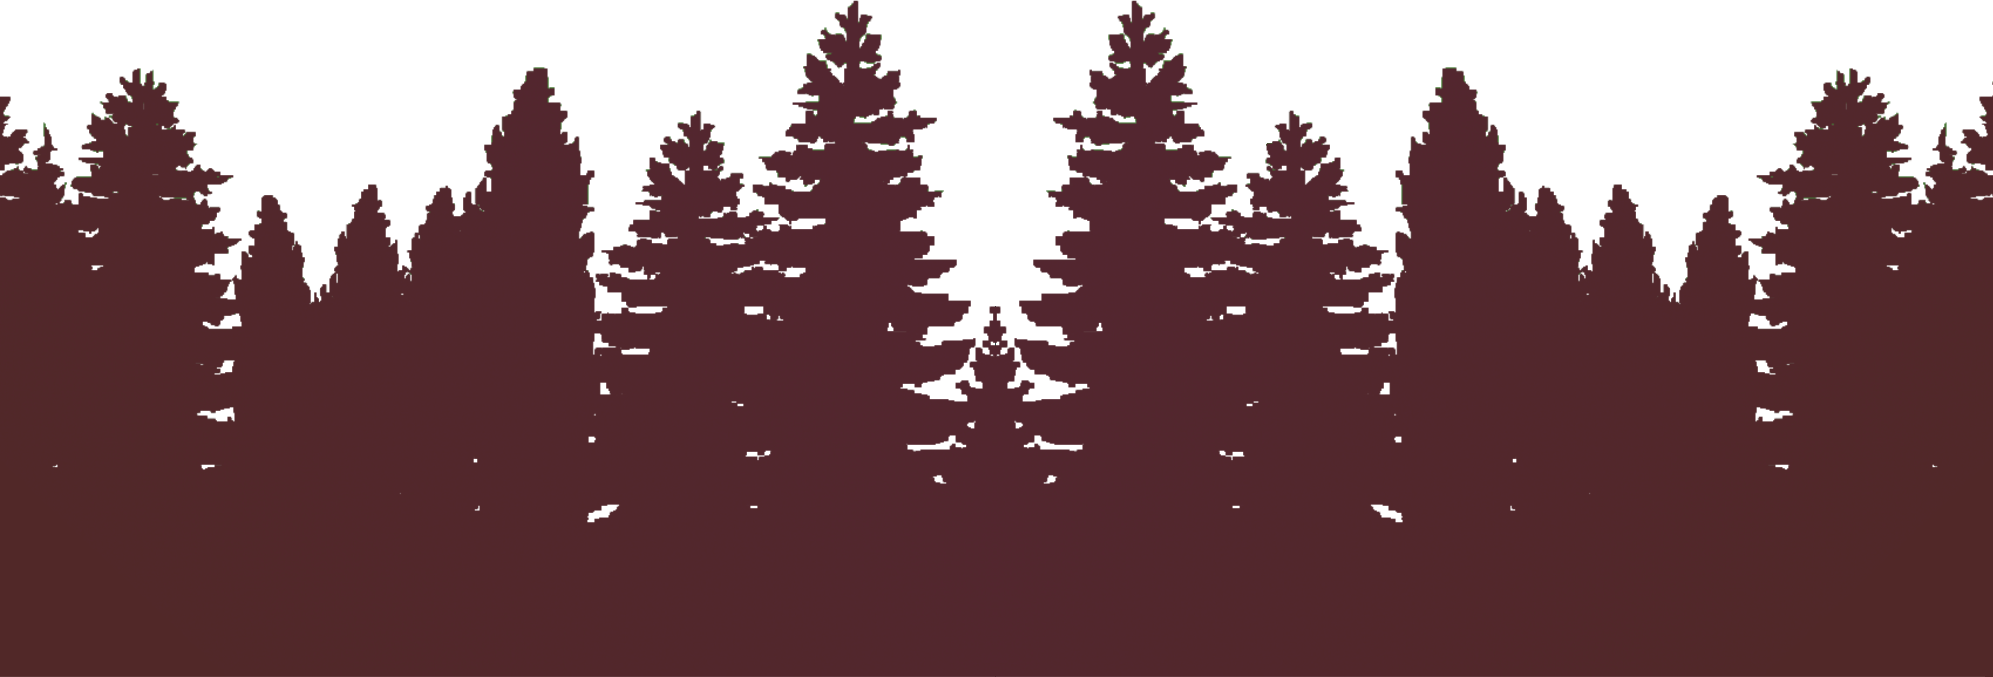
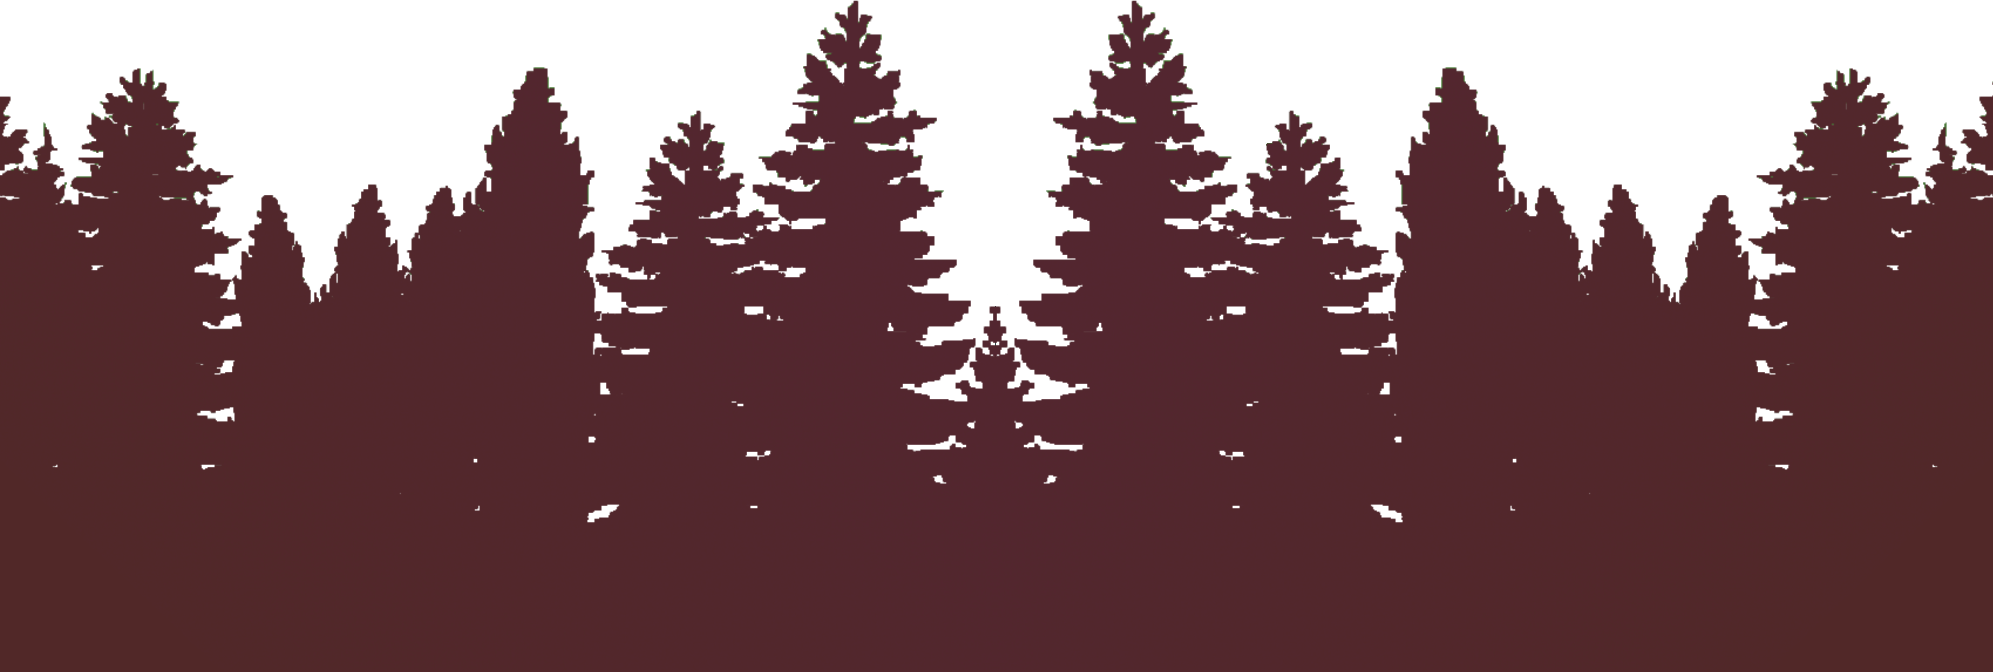
Visual fixes/improvements

diff --git a/layouts/main-layout.module.scss b/layouts/main-layout.module.scss
@@ -1,5 +1,5 @@
 .headerSection {
-    background: bottom/contain no-repeat url("/trees.png"), linear-gradient(0deg, #eacc9d, #ea6152);
+    background: bottom/contain repeat-x url("/trees.png"), linear-gradient(0deg, #eacc9d, #ea6152);
     display: flex;
     flex-direction: column;
     justify-content: center;
@@ -8,7 +8,7 @@
     font-size: 70px;
     color: white;
     text-shadow: rgb(0, 0, 0) -1px -1px 3px, rgb(0, 0, 0) 1px -1px 3px, rgb(0, 0, 0) -1px 1px 3px, rgb(0, 0, 0) 1px 1px 3px;
-    height: 450px;
+    height: 600px;
 
     &.largeBanner {
         height: 100vh;

diff --git a/pages/_document.tsx b/pages/_document.tsx
@@ -3,7 +3,14 @@ import { Html, Head, Main, NextScript } from 'next/document'
 export default function Document() {
   return (
     <Html lang="en">
-      <Head />
+      <Head>
+        <meta name="viewport" content="width=device-width, initial-scale=1" />
+        <link rel="icon" href="/favicon.ico" />
+        <link
+          rel="stylesheet"
+          href="https://fonts.googleapis.com/css?family=Roboto:300,400,500,700&display=swap"
+        />
+      </Head>
       <body>
         <Main />
         <NextScript />

diff --git a/components/DynamicPage.tsx b/components/DynamicPage.tsx
@@ -1,4 +1,5 @@
 import MarkdownIt from "markdown-it"
+import Head from "next/head"
 import { FC } from "react"
 import { Page } from "../data/content"
 
@@ -15,6 +16,9 @@ const DynamicPage: FC<Props> = ({ navLinks, page }) => {
     const html = md.render(page.content)
 
     return <>
+        <Head>
+            <title>{page.title}</title>
+        </Head>
         <NavLinks links={navLinks} />
         <main
             className={styles.content}

diff --git a/pages/_app.tsx b/pages/_app.tsx
@@ -10,7 +10,9 @@ type AppPropsWithLayout = AppProps & {
 export default function App({ Component, pageProps }: AppPropsWithLayout) {
   const getLayout = Component.getLayout ?? ((page) => page)
 
-  return getLayout(<Component {...pageProps} />)
+  return <>
+    {getLayout(<Component {...pageProps} />)}
+  </>
 }
 
 export type NextPageWithLayout<P = {}, IP = P> = NextPage<P, IP> & {

diff --git a/pages/[page_id].tsx b/pages/[page_id].tsx
@@ -27,7 +27,10 @@ export const getStaticProps: GetStaticProps<DynamicPageProps, Params> = async ({
 
     return {
         props: {
-            navLinks: pages.map(pageToLink),
+            navLinks: [
+                { label: 'Home', href: '/' },
+                ...pages.filter(page => page.page_id !== '').map(pageToLink)
+            ],
             page
         }
     }

diff --git a/pages/index.tsx b/pages/index.tsx
@@ -20,7 +20,10 @@ export const getStaticProps: GetStaticProps<DynamicPageProps, Params> = async ({
 
     return {
         props: {
-            navLinks: pages.map(pageToLink),
+            navLinks: [
+                { label: 'Home', href: '/' },
+                ...pages.filter(page => page.page_id !== '').map(pageToLink)
+            ],
             page
         }
     }

diff --git a/components/NavLinks.module.scss b/components/NavLinks.module.scss
@@ -8,7 +8,7 @@
         color: #fff;
         transition: background-color .2s ease-in-out, color .2s ease-in-out;
         display: block;
-        font-size: 12px;
+        font-size: 17px;
         font-weight: 900;
         line-height: 3;
         outline: none;

diff --git a/components/DynamicPage.module.scss b/components/DynamicPage.module.scss
@@ -1,7 +1,8 @@
 .content {
-    padding: 20px 60px;
+    padding: 20px 60px 60px 60px;
     max-width: 800px;
     margin: 0 auto;
+    font-weight: 300;
 
     h1, h2, h3, h4, h5, h6 {}
 

diff --git a/pages/globals.scss b/pages/globals.scss
@@ -13,7 +13,7 @@ html,
 body {
   background: var(--color-primary);
   color: white;
-  font-family: sans-serif;
+  font-family: Roboto, sans-serif;
 }
 
 a {
